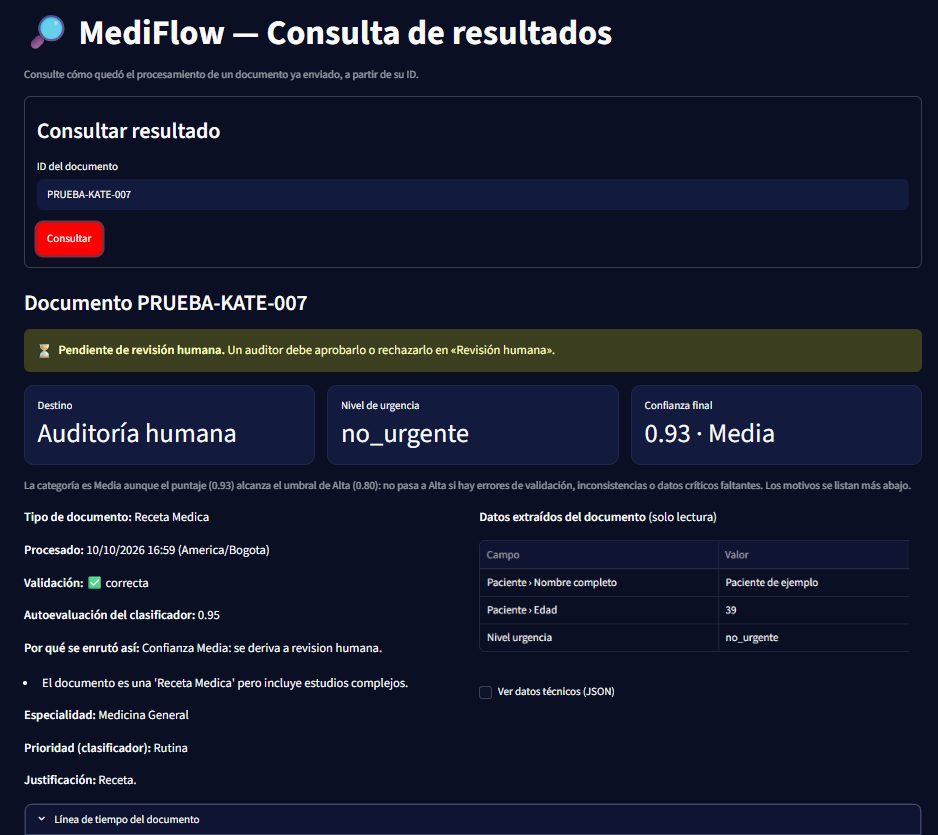
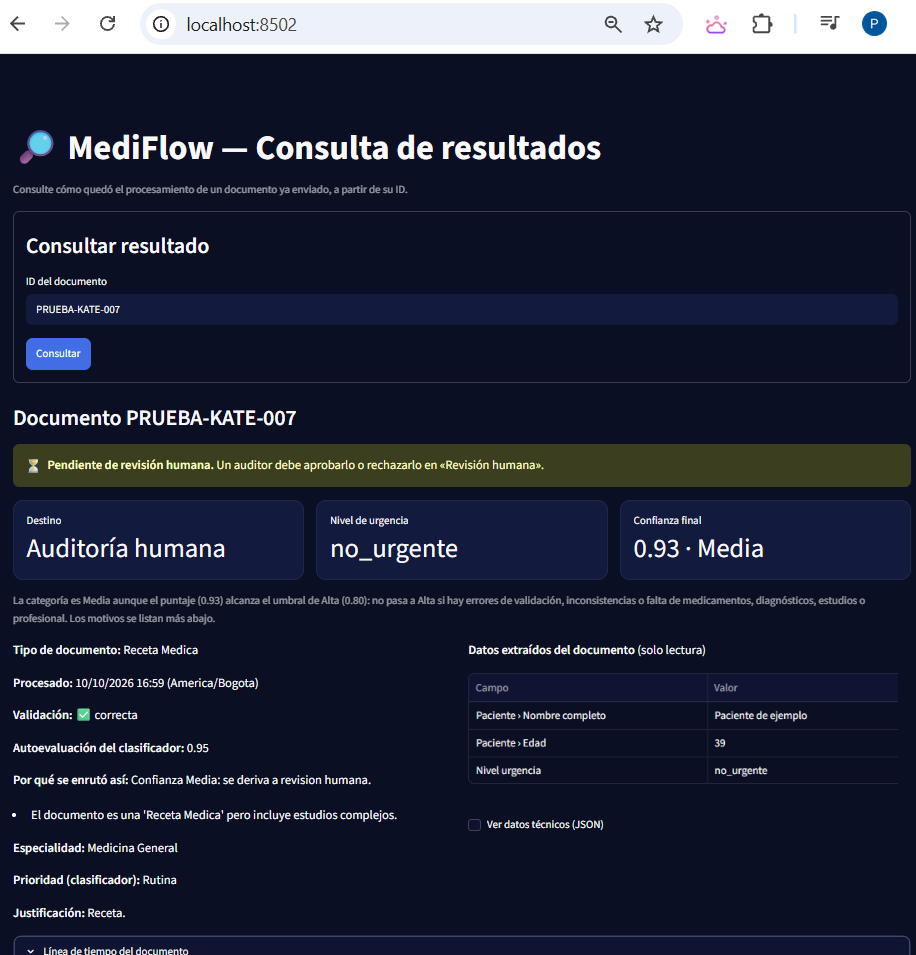
fix(MF-28): la nota nombra los datos que bajan la categoría (sugerencia de revisión)

diff --git a/frontend/consulta_resultados.py b/frontend/consulta_resultados.py
@@ -98,7 +98,7 @@ UMBRAL_CONFIANZA_ALTA = 0.80  # igual que UMBRAL_ALTA en app/graph/confianza.py
 
 
 def categoria_degradada_a_media(item: dict) -> bool:
-    """Puntaje de categoría Alta, pero categoría Media: el backend la baja si hay avisos o datos críticos faltantes."""
+    """Puntaje de categoría Alta, pero categoría Media: el backend la baja si hay errores, inconsistencias o falta de medicamentos, diagnósticos, estudios o profesional."""
     score = item["score_confianza_final"]
     return (
         isinstance(score, (int, float))
@@ -171,9 +171,10 @@ def _mostrar_documento(documento_id: str, eventos: list[dict[str, Any]], clave: 
         st.caption(
             f"La categoría es Media aunque el puntaje ({score:.2f}) alcanza el umbral de Alta "
             f"({UMBRAL_CONFIANZA_ALTA:.2f}): no pasa a Alta si hay errores de validación, "
-            "inconsistencias o datos críticos faltantes. Los motivos se listan más abajo."
+            "inconsistencias o falta de medicamentos, diagnósticos, estudios o profesional. "
+            "Los motivos se listan más abajo."
         )
-
+    
     col_a, col_b = st.columns(2)
     with col_a:
         st.markdown(f"**Tipo de documento:** {item['tipo_documento']}")

diff --git a/docs/MF-28-explicacion-confianza.md b/docs/MF-28-explicacion-confianza.md
@@ -22,7 +22,9 @@ Atender la observación 8 de la revisión de MF-28: un puntaje de 0.93 aparece c
 
 ## 3. Cómo funciona
 
-Cuando el puntaje es igual o mayor a 0,80 y la categoría es Media, la consulta muestra una nota con el puntaje y el umbral de Alta. La nota explica que la categoría no pasa a Alta si hay errores de validación, inconsistencias o datos críticos faltantes, y remite a los motivos que se listan debajo.
+Cuando el puntaje es igual o mayor a 0,80 y la categoría es Media, la consulta muestra una nota con el puntaje y el umbral de Alta. La nota explica que la categoría no pasa a Alta si hay errores de validación, inconsistencias o falta de medicamentos, diagnósticos, estudios o profesional, y remite a los motivos que se listan debajo.
+
+Los datos del paciente que falten (nombre, fecha, sexo) solo restan puntaje y no cambian la categoría, por eso la nota no los menciona.
 
 No aparece cuando la categoría es Alta, cuando el puntaje es menor a 0,80 o cuando no hay puntaje.
 
